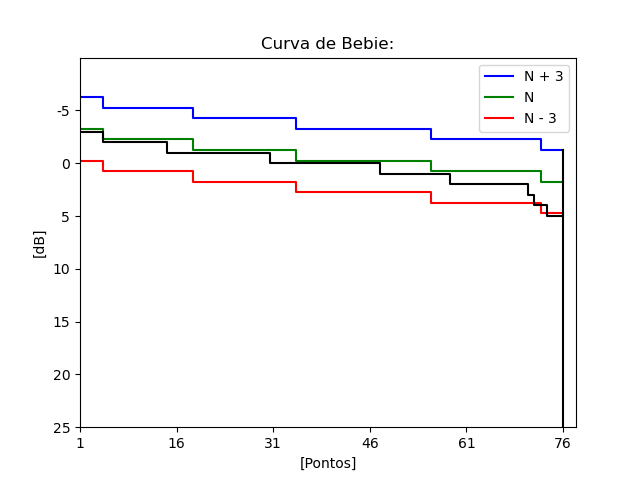
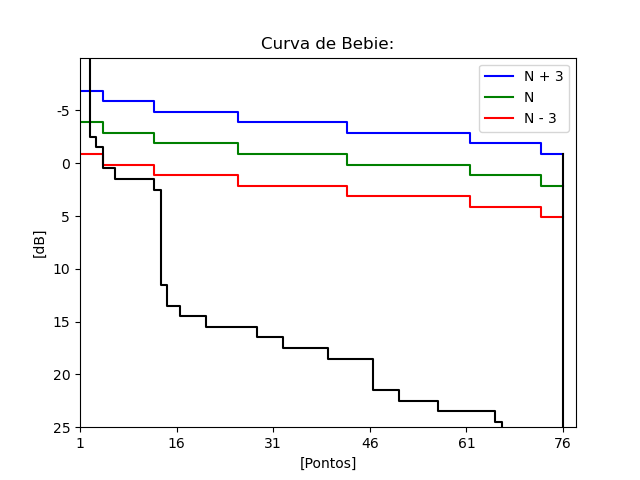
atualiza identificador do exame e ajusta parâmetros no módulo de campimetria

diff --git a/campimetria/strategies/CAMPFullThreshold.py b/campimetria/strategies/CAMPFullThreshold.py
@@ -41,8 +41,8 @@ class FullThreshold:
         self.NC = 0
         self.Delta = 0
         self.viu = 0
-        self.Dbig = 3
-        self.Dsmall = 2
+        self.Dbig = 6
+        self.Dsmall = 3
         self.limiarok = False
         self.limiar_status = ""
         self.limiar = 0
@@ -569,7 +569,7 @@ class FullThreshold:
             self.limiar = self.AT
             DadosExame.LimiarFoveal = self.limiar
             for ponto in self.ponto_quad:
-                ponto.atenuacao = self.limiar - 10
+                ponto.atenuacao = self.limiar - 12
            
             self.limiarok = True  
             self.UV = 0
@@ -579,8 +579,8 @@ class FullThreshold:
             self.NC = 0
             self.Delta = 0
             self.viu = 0
-            self.Dbig = 3
-            self.Dsmall = 2
+            self.Dbig = 6
+            self.Dsmall = 3
             self.limiar_status = ""
             self.limiar = 0
             self.primeiro = True
@@ -632,7 +632,7 @@ class FullThreshold:
                     if self.ponto_quad[self.indice_atual].status == "-":
                         self.ponto_quad[self.indice_atual].numero_cruzamentos += 1
                         self.ponto_quad[self.indice_atual].delta = self.Dsmall
-                        if self.ponto_quad[self.indice_atual].numero_cruzamentos >= 2:
+                        if self.ponto_quad[self.indice_atual].numero_cruzamentos >= 1:
                             self.ponto_quad[self.indice_atual].status = "="
                             self.ponto_quad[self.indice_atual].atenuacao = (self.ponto_quad[self.indice_atual].ultima_atenuacao_vista + self.ponto_quad[self.indice_atual].ultima_atenuacao_nao_vista) / 2
                             return
@@ -660,7 +660,7 @@ class FullThreshold:
                         self.ponto_quad[self.indice_atual].numero_cruzamentos = +1
                         self.ponto_quad[self.indice_atual].delta = self.Dsmall
 
-                        if self.ponto_quad[self.indice_atual].numero_cruzamentos >= 2:
+                        if self.ponto_quad[self.indice_atual].numero_cruzamentos >= 1:
                             self.ponto_quad[self.indice_atual].status = "="
                             self.ponto_quad[self.indice_atual].atenuacao = (self.ponto_quad[self.indice_atual].ultima_atenuacao_vista + self.ponto_quad[self.indice_atual].ultima_atenuacao_nao_vista) / 2
                             return

diff --git a/campimetria/procedures/Ponto.py b/campimetria/procedures/Ponto.py
@@ -120,7 +120,7 @@ class Ponto:
         if surface == "padrao":
             surface = pygame.display.get_surface()
         fonte = pygame.font.FontType(None,fonte_size)
-        texto = fonte.render(f"{atenuacao}",True,(0,0,0))
+        texto = fonte.render(f"{int(atenuacao)}",True,(0,0,0))
         pos = texto.get_rect()
         pos.center = (self.x,self.y)
         surface.blit(texto,pos)
@@ -205,14 +205,14 @@ class Ponto:
                         pygame.time.delay(400)                       
                         return menu_pressionado
 
-            if GPIO.input(PIN_ENTRADA) == GPIO.HIGH:
-                self.tempo_resposta = (
-                    pygame.time.get_ticks() - trial_start_time
-                ) / 1000  
-                self.response_received = True 
-                self.apagarPonto()  
-                pygame.time.delay(400)              
-                return menu_pressionado
+            # if GPIO.input(PIN_ENTRADA) == GPIO.HIGH:
+            #     self.tempo_resposta = (
+            #         pygame.time.get_ticks() - trial_start_time
+            #     ) / 1000  
+            #     self.response_received = True 
+            #     self.apagarPonto()  
+            #     pygame.time.delay(400)              
+            #     return menu_pressionado
 
             if not self.response_received:
                 

diff --git a/campimetria/main.py b/campimetria/main.py
@@ -11,7 +11,7 @@ GPIO.setwarnings(False)
 GPIO.setmode(GPIO.SUNXI)
 
 PIN_ENTRADA = "PD22"
-GPIO.setup(PIN_ENTRADA, GPIO.IN)
+# GPIO.setup(PIN_ENTRADA, GPIO.IN)
 
 
 # Adiciona os caminhos (suas pastas de constantes, páginas, procedimentos, etc.)
